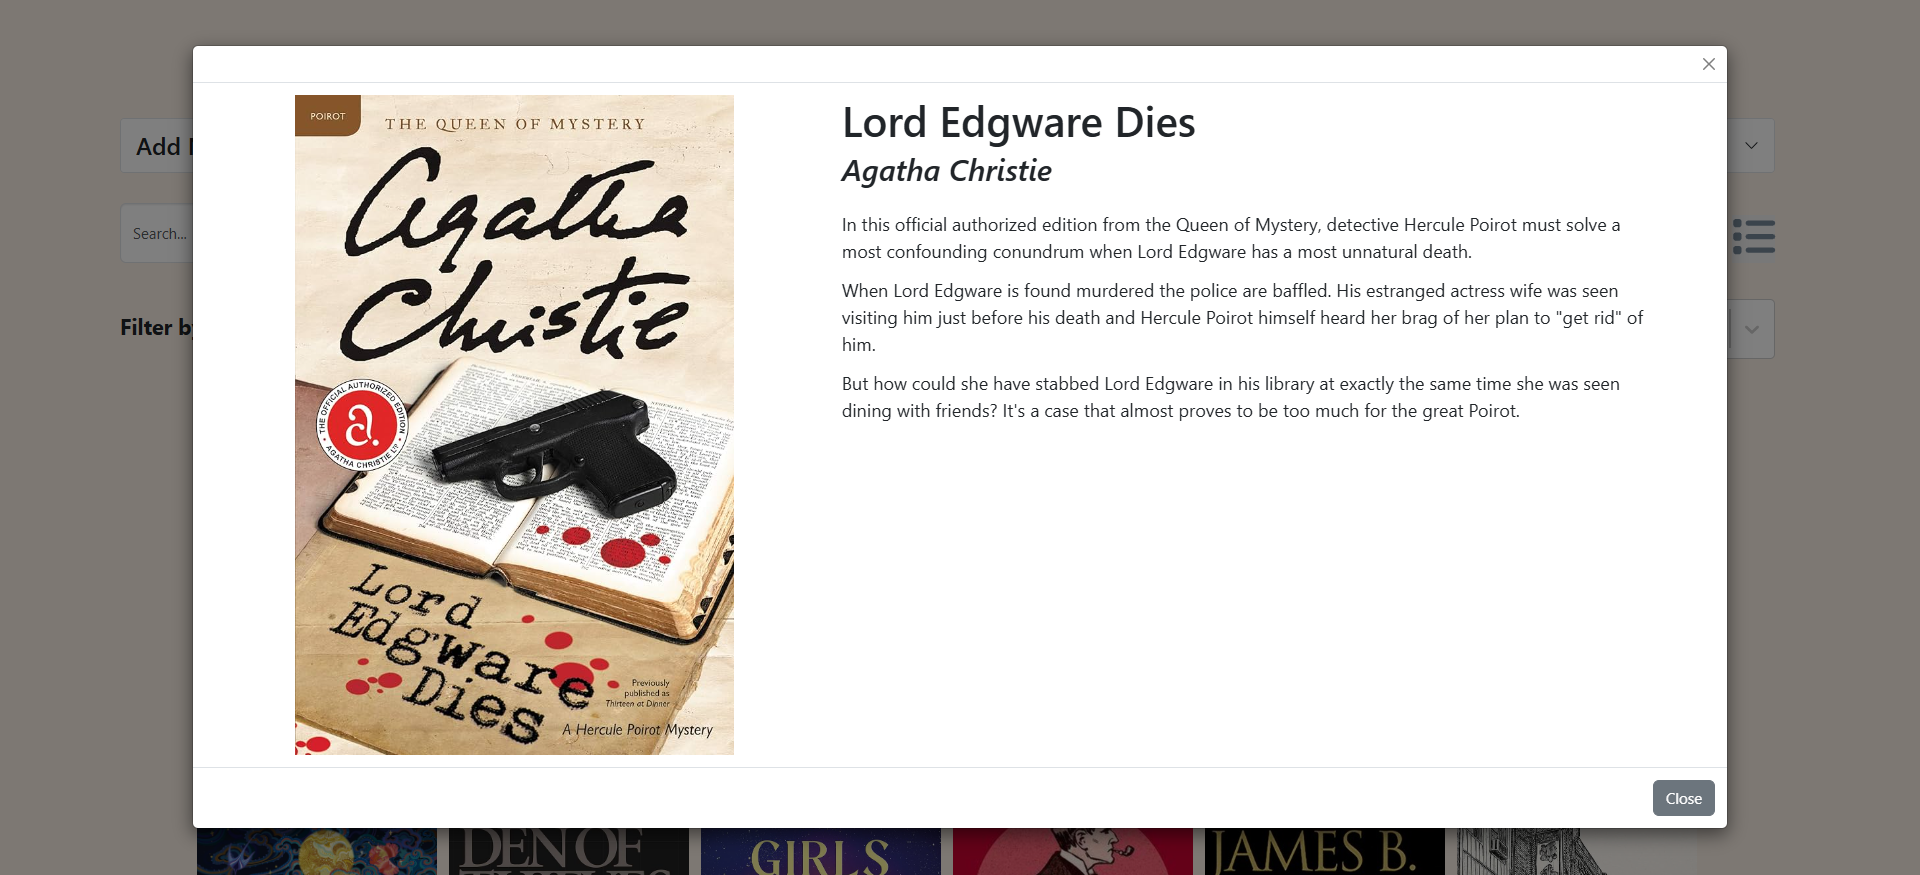
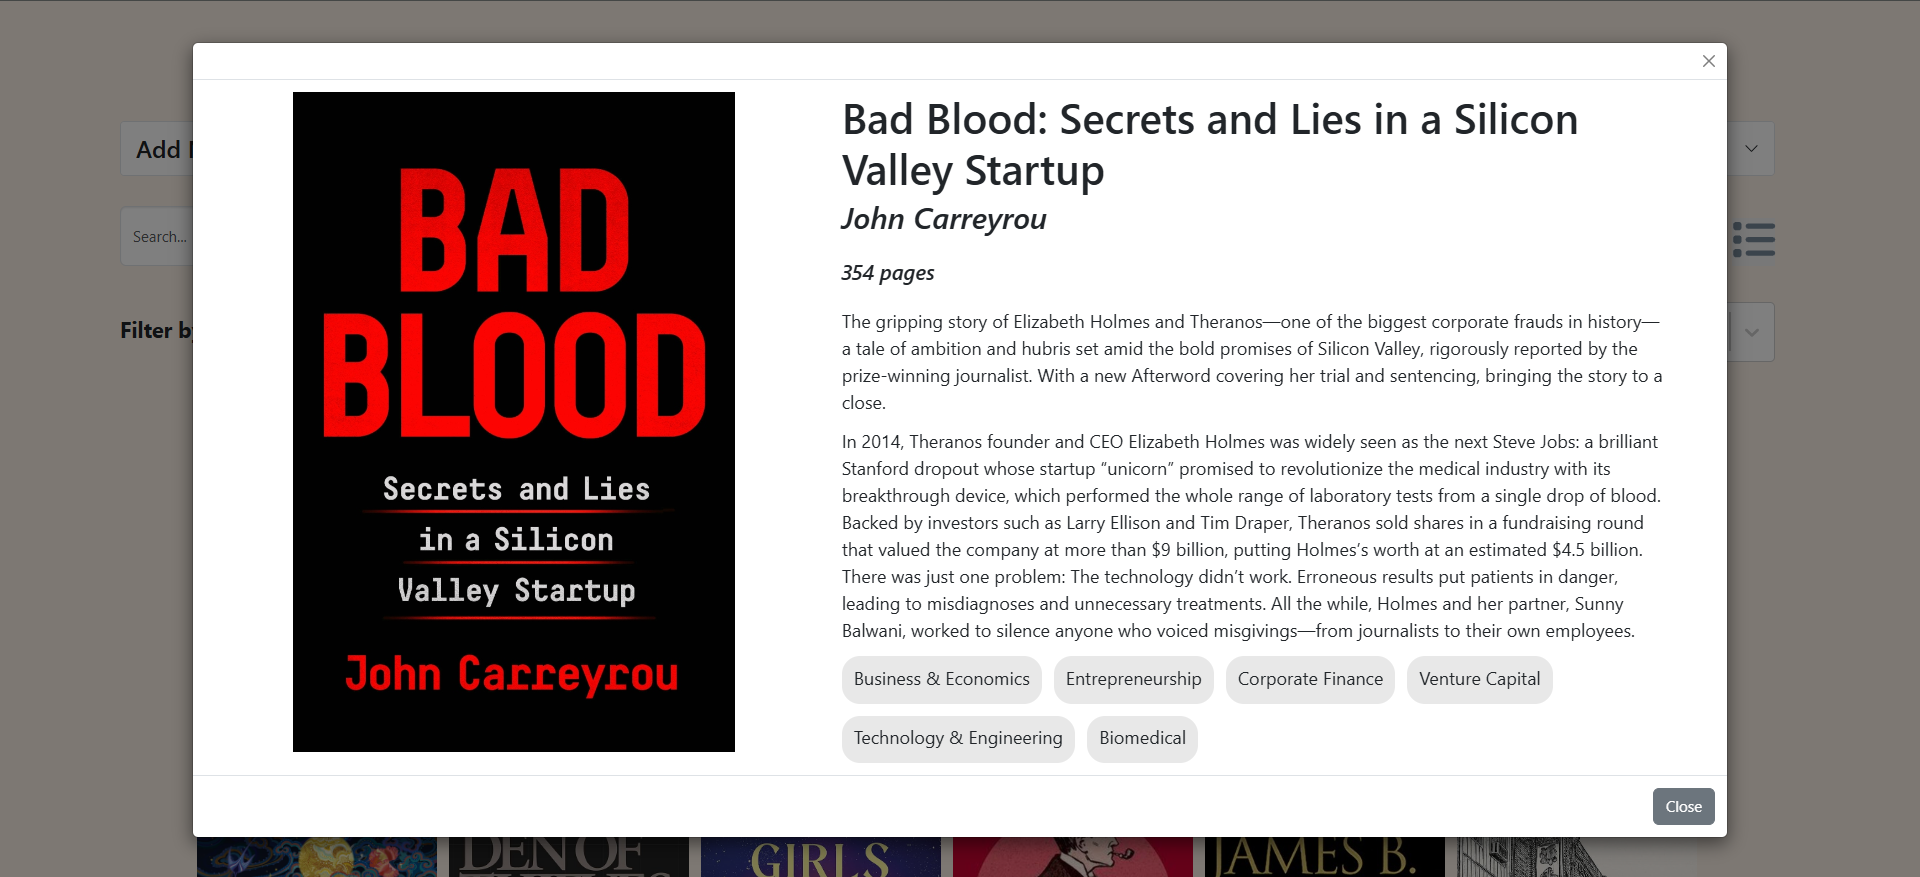
feat: display page count and genres

diff --git a/server/index.js b/server/index.js
@@ -7,7 +7,7 @@ const bodyParser = require('body-parser');
 const exceljs = require('exceljs');
 var multer = require('multer');
 
-function Book(id, title, author, description, imageurl, date, type, genres) {
+function Book(id, title, author, description, imageurl, date, type, genres, pageCount) {
 	this.id = id;
 	this.title = title;
 	this.author = author;
@@ -16,6 +16,7 @@ function Book(id, title, author, description, imageurl, date, type, genres) {
 	this.date = date;
     this.type = type;
     this.genres = genres;
+    this.pageCount = pageCount
 }
 
 var bookdata = xlsx.parse(__dirname + '/bookdata.xlsx')[0].data;
@@ -23,7 +24,7 @@ bookdata.shift();
 
 var books = [];
 for (const book of bookdata) {
-	books.push(new Book(book[0], book[1], book[2], book[3], book[4], book[5], book[6], book[7]));
+	books.push(new Book(book[0], book[1], book[2], book[3], book[4], book[5], book[6], book[7], book[8]));
 }
 
 var storage = multer.diskStorage({
@@ -103,6 +104,7 @@ app.post('/addBook', upload.single('cover'), function(req, res) {
 		getRowInsert.getCell('F').value = today;
         getRowInsert.getCell('G').value = req.body.type;
         getRowInsert.getCell('H').value = req.body.genres.replaceAll("\r\n", " / ");
+        getRowInsert.getCell('I').value = Number(req.body.pageCount);
 		getRowInsert.commit();
 		return workbook.xlsx.writeFile(nameFileExcel);
 	});
@@ -119,7 +121,7 @@ app.get('/getBooks', function(req, res) {
 
 	var books = [];
 	for (const book of bookdata) {
-		books.push(new Book(book[0], book[1], book[2], book[3], book[4], book[5], book[6], book[7]));
+		books.push(new Book(book[0], book[1], book[2], book[3], book[4], book[5], book[6], book[7], book[8]));
 	}
 
 	res.json({ message: books });

diff --git a/client/src/components/BookModal.jsx b/client/src/components/BookModal.jsx
@@ -2,14 +2,16 @@ import {Modal, Button} from "react-bootstrap";
 
 export default function BookModal(props) {
 	return (
-        <Modal show={props.showModal} onHide={props.closeModal} animation={false} centered dialogClassName="modal80">
-            <Modal.Header closeButton />
+		<Modal show={props.showModal} onHide={props.closeModal} animation={false} centered dialogClassName="modal80">
+			<Modal.Header closeButton />
 			<Modal.Body>
-                <div className="row">
+				<div className="row">
 					<div className="col-md-5 text-center"><img id="modal-img" src={"/public/images/" + props.imageUrl} alt={props.title}/></div>
 					<div className="col-md-7" id="bookDetails">
 						<b><h1 id="modal-title">{props.title}</h1></b>
 						<i><h2 id="modal-author">{props.author}</h2></i>
+						<br/>
+						<i><h3 id="modal-pageCount">{props.pageCount} pages</h3></i>
 						<br/>
 						<div id="modal-description">
 							{props.description.split('\n').map((line, index) => (
@@ -18,9 +20,16 @@ export default function BookModal(props) {
 								</p>
 							))}
 						</div>
+						<div className="genre-list">
+							{props.genres.map((genre, index) => (
+								<div className="genre-list-item">
+									<p>{genre}</p>
+								</div>
+							))}
+						</div>
 					</div>
 				</div>
-                </Modal.Body>
+				</Modal.Body>
 				<Modal.Footer>
 					<Button variant="secondary" size="lg" onClick={props.closeBookModal}>
 						Close

diff --git a/client/src/App.js b/client/src/App.js
@@ -23,7 +23,8 @@ function App() {
 		imageUrl : "1 The Power of Habit.jpg",
 		date : "2024-01-01",
 		type : "Nonfiction",
-		genres : []
+		genres : [],
+		pageCount : 0
 	});
 	const [sortOrder, setSortOrder] = React.useState("2");
 	const [searchTerm, setSearchTerm] = React.useState("");
@@ -42,7 +43,8 @@ function App() {
 			imageUrl : book.imageurl,
 			date : book.date,
 			type : book.type,
-			genres : book.genres.split(" / ")
+			genres : book.genres.split(" / "),
+			pageCount : book.pageCount
 		});
 		setShowBookModal(true);
 	}
@@ -153,7 +155,8 @@ function App() {
 				imageUrl : book.imageurl,
 				date : book.date,
 				type : book.type,
-				genres : book.genres.split(" / ")
+				genres : book.genres.split(" / "),
+				pageCount : book.pageCount
 			});
 		});
 
@@ -191,7 +194,8 @@ function App() {
 				imageUrl : book.imageurl,
 				date : book.date,
 				type : book.type,
-				genres : book.genres.split(" / ")
+				genres : book.genres.split(" / "),
+				pageCount : book.pageCount
 			});
 		}
 		
@@ -316,6 +320,8 @@ function App() {
 				author={currentBook.author}
 				description={currentBook.description}
 				imageUrl={currentBook.imageUrl}
+				pageCount={currentBook.pageCount}
+				genres={currentBook.genres}
 				closeModal={closeBookModal}
 			/>
 		</div>

diff --git a/client/src/components/NewBookForm.jsx b/client/src/components/NewBookForm.jsx
@@ -53,6 +53,8 @@ export default function NewBookForm(props) {
 			document.getElementById("descriptionText").innerHTML = categories.join("<br>");
 			document.getElementById("genres").value = document.getElementById("descriptionText").innerText;
 
+            document.getElementById("pageCount").value = data.volumeInfo.printedPageCount;
+
 			if (data.volumeInfo.hasOwnProperty("imageLinks")) {
 				let imageLink = getImageLink(data.volumeInfo.imageLinks);
 				document.getElementById("coverUrl").value = imageLink.replace("&edge=curl", "");
@@ -111,6 +113,10 @@ export default function NewBookForm(props) {
 							<Form.Label htmlFor="description">Description:</Form.Label>
 							<Form.Control size="lg" as="textarea" id="description" name="description" rows={10} required={true} />
 							<div id="descriptionText" tabIndex={"-1"}></div>
+						</Form.Group>
+                        <Form.Group className="mrgn-15">
+							<Form.Label htmlFor="cover">Page Count:</Form.Label>
+							<Form.Control size="lg" type="number" id="pageCount" name="pageCount" required={true} />
 						</Form.Group>
 						<Form.Group className="mrgn-15">
 							<Form.Label htmlFor="type">Type:</Form.Label>

diff --git a/client/src/App.css b/client/src/App.css
@@ -144,3 +144,17 @@ div:has(input[name=filterGenre]) {
     line-height: 250%;
     float: right;
 }
+
+.genre-list {
+	width: 100%;
+	display: flex;
+	flex-wrap: wrap;
+	align-items: flex-end;
+	gap: 10px;
+}
+
+.genre-list-item {
+    border-radius: 15px;
+    background-color: #E8E8E8;
+    padding: 7px 10px 0px 10px;
+}

diff --git a/README.md b/README.md
@@ -12,7 +12,7 @@ There are two different view modes, gallery view and list view. In gallery view,
 ![List View](demo_img/demo7.png)
 *List View*
 
-A modal is displayed when a book is clicked on, providing more details about the book - a larger image of the cover, the title, the author(s), and a description.
+A modal is displayed when a book is clicked on, providing more details about the book - a larger image of the cover, the title, the author(s), page count, description, and a list of genres.
 
 ![Book Modal](demo_img/demo2.png)
 *Book Modal*
